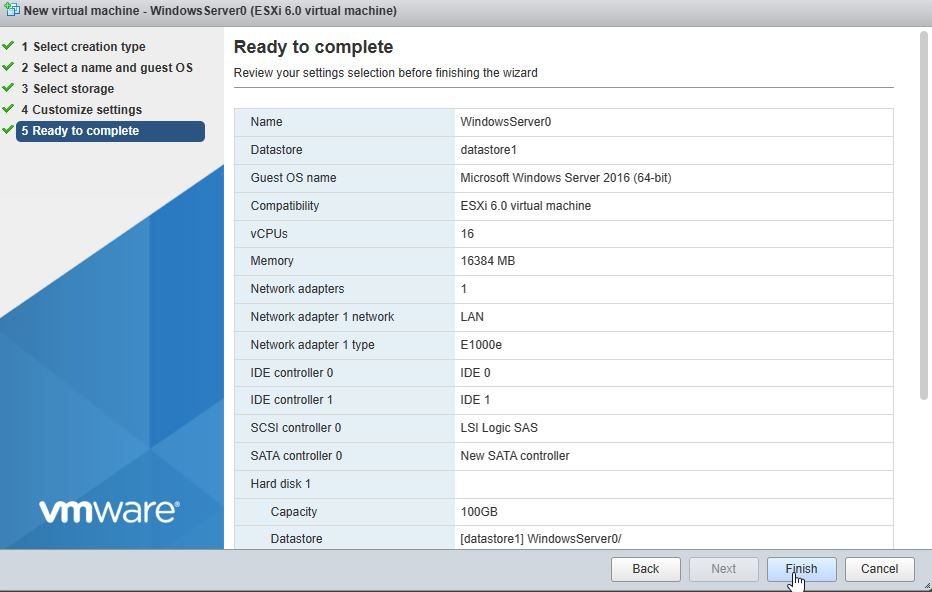
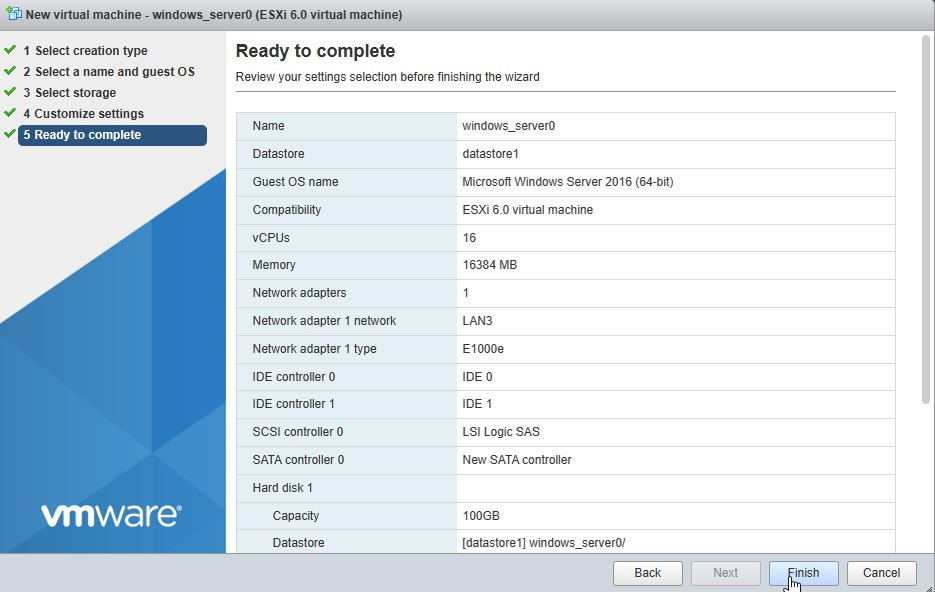
iso guide

Changed region(s): [[0.0, 0.0, 1.0, 1.0], [0.0, 0.3345, 0.1867, 0.5473]]

diff --git a/firstiIsoVM.md b/firstiIsoVM.md
@@ -1,5 +1,18 @@
 # Windows server VM on isolated network
-This demonstration uses ESXI and PFSense to configure a windows server VM on an isolated network 
+This demonstration uses ESXI and PFSense to configure a windows server VM on an isolated network. A homelab is usually primarily built as a learning environnement, so you may want to play with networks that do not use PFSense
+
+The idea here is to show how you can add network segments that are managed by non-pfsense systems. Access between the windows segment and the other interfaces can be managed using some simple firewall rules
+
+We are going to use windows server as the DHCP server on LAN3
+
+We are also going to deploy an IIS webserver, and create some firewall rules to control access from other interfaces
+        We will set up a windows server instance on LAN3
+
+        We will then set up DHCP and an IIS webserver on the Windows Server, and create firewall rules allowing only port 80 and 443 traffic from LAN2.
+
+        We will then plug a device into LAN3. We will demonstrate the the windows DHCP server server, and demonstrate the connectivity to other subnets
+
+        We will then connect to the IIS webserver 
 
 ## Requirements
 1. Completed the [Server & Hypervisor Setup Instructions](firstConfig.md) 
@@ -22,5 +35,42 @@ This demonstration uses ESXI and PFSense to configure a windows server VM on an 
     2. create a new virtual machine ? next ([screenshot](https://github.com/mynah22/Homelab-Guides/raw/main/screenshots/firstConfig/iso5.jpg))
     3. Name- your choice. Guest OS family- Windows. Guest OS Version- Windows server 2016. Click 'Next' ([screenshot](https://github.com/mynah22/Homelab-Guides/raw/main/screenshots/firstConfig/iso6.jpg))
     4. Select the datastore for the VM's virtual hard drive, click 'Next' ([screenshot](https://github.com/mynah22/Homelab-Guides/raw/main/screenshots/firstConfig/iso7.jpg))
-    5. CPU- 16, memory- 16MB (16384 MB), 100 GB hard drive, click 'Next ([screenshot](https://github.com/mynah22/Homelab-Guides/raw/main/screenshots/firstConfig/iso8.jpg))
+    5. customize settings screen:
+        - CPU- 16
+        - memory- 16MB (16384 MB)
+        - hard disk 1- 100 GB
+        - network adapter 1- LAN3
+        - CD/DVD Drive 1- Datastore ISO file ([screenshot]((https://github.com/mynah22/Homelab-Guides/raw/main/screenshots/firstConfig/iso10))
+        - click 'Next ([screenshot](https://github.com/mynah22/Homelab-Guides/raw/main/screenshots/firstConfig/iso8.jpg))
     6. Review details, click 'Finish' ([screenshot](https://github.com/mynah22/Homelab-Guides/raw/main/screenshots/firstConfig/iso9.jpg))
+    7. after a short delay you will see the new VM under Virtual Machines. Click the VM name to open it's configuration page ([screenshot](https://github.com/mynah22/Homelab-Guides/raw/main/screenshots/firstConfig/iso11.jpg))
+    8. click the console preview window to start the VM ([screenshot](https://github.com/mynah22/Homelab-Guides/raw/main/screenshots/firstConfig/iso12.jpg))
+
+- ### **Install Windows Server**
+    1. windows server should boot (screenshots [1](https://github.com/mynah22/Homelab-Guides/raw/main/screenshots/firstConfig/iso13.jpg) [2](https://github.com/mynah22/Homelab-Guides/raw/main/screenshots/firstConfig/iso14.jpg))
+    2. change language, time, and keyboard settings if needed, click 'Next' ([screenshot](https://github.com/mynah22/Homelab-Guides/raw/main/screenshots/firstConfig/iso15.jpg))
+    3. clcik 'Install now' ([screenshot](https://github.com/mynah22/Homelab-Guides/raw/main/screenshots/firstConfig/iso16.jpg))
+    4. setup will take a moment to start ([screenshot](https://github.com/mynah22/Homelab-Guides/raw/main/screenshots/firstConfig/iso17.jpg))
+    5. select the 'standard evaluation - desktop experience' OS, click 'Next' ([screenshot](https://github.com/mynah22/Homelab-Guides/raw/main/screenshots/firstConfig/iso18.jpg)) 
+    6. After a moment, you will see an 'Applicable notices and license terms' screen. Check the 'I accept the license terms' box, click 'Next' ([screenshot](https://github.com/mynah22/Homelab-Guides/raw/main/screenshots/firstConfig/iso19.jpg))
+    7. Click 'Custom: install windows only (advanced)' ([screenshot](https://github.com/mynah22/Homelab-Guides/raw/main/screenshots/firstConfig/iso20.jpg))
+    8. Click 'Next' ([screenshot](https://github.com/mynah22/Homelab-Guides/raw/main/screenshots/firstConfig/iso21.jpg))
+    9. Windows should install ([screenshot](https://github.com/mynah22/Homelab-Guides/raw/main/screenshots/firstConfig/iso22.jpg))
+    10. after installation, windows should boot (screenshots [1](https://github.com/mynah22/Homelab-Guides/raw/main/screenshots/firstConfig/iso23.jpg) [2](https://github.com/mynah22/Homelab-Guides/raw/main/screenshots/firstConfig/iso24.jpg))
+    9. Set admin password, click 'Finish' ([screenshot](https://github.com/mynah22/Homelab-Guides/raw/main/screenshots/firstConfig/iso25.jpg))
+- ### **Set up windows services**
+    1. You need to press Ctrl + Alt + Delete on the guest (windows server) in order to log in. To do this, Right Click the top bar of the VM console window, then Guest os > send keys > Ctrl-Atl-Delete ([screenshot](https://github.com/mynah22/Homelab-Guides/ raw/main/screenshots/firstConfig/iso26.jpg))
+    9. Type the administrator password you set above, ENTER to log in ([screenshot](https://github.com/mynah22/Homelab-Guides/raw/main/screenshots/firstConfig/iso27.jpg))
+    9. It will take a moment for Windows Server to load. Server Manager will be automatically launched, and you will be presented with a pop-up informing you about Windows Admin Center. Check 'Don't show this message again' and click X to close the pop up  (screenshots [1](https://github.com/mynah22/Homelab-Guides/raw/main/screenshots/firstConfig/iso28.jpg) [2](https://github.com/mynah22/Homelab-Guides/raw/main/screenshots/firstConfig/iso29.jpg) [3](https://github.com/mynah22/Homelab-Guides/raw/main/screenshots/firstConfig/iso30.jpg))
+    9. click 'add roles and features' ([screenshot](https://github.com/mynah22/Homelab-Guides/raw/main/screenshots/firstConfig/iso31.jpg))
+    10. click 'next' on the 'Before you begin' screen ([screenshot](https://github.com/mynah22/Homelab-Guides/raw/main/screenshots/firstConfig/iso32.jpg))
+    10. click 'next' to proceed with role-based installation ([screenshot](https://github.com/mynah22/Homelab-Guides/raw/main/screenshots/firstConfig/iso33.jpg))
+    10. click 'next' to install to this windows server instance ([screenshot](https://github.com/mynah22/Homelab-Guides/raw/main/screenshots/firstConfig/iso34.jpg))
+    10. click the checkbox next to the DHCP server role, then click 'add features' (screenshots [1](https://github.com/mynah22/Homelab-Guides/raw/main/screenshots/firstConfig/iso35.jpg) [2](https://github.com/mynah22/Homelab-Guides/raw/main/screenshots/firstConfig/iso36.jpg))
+    11. click 'Next' [screenshot](https://github.com/mynah22/Homelab-Guides/raw/main/screenshots/firstConfig/iso37.jpg)
+    12. click 'Next' without adding any features ([screenshot](https://github.com/mynah22/Homelab-Guides/raw/main/screenshots/firstConfig/iso38.jpg))
+    13. click 'Next' on the DHCP server screen ([screenshot](https://github.com/mynah22/Homelab-Guides/raw/main/screenshots/firstConfig/iso39.jpg))
+    13. click 'Install' on the confirmation screen ([screenshot](https://github.com/mynah22/Homelab-Guides/raw/main/screenshots/firstConfig/iso40.jpg))
+    13. click 'Install' on the confirmation screen. click 'Close' after installation completes (screenshots [1](https://github.com/mynah22/Homelab-Guides/raw/main/screenshots/firstConfig/iso40.jpg) [2](https://github.com/mynah22/Homelab-Guides/raw/main/screenshots/firstConfig/iso41.jpg) [3](https://github.com/mynah22/Homelab-Guides/raw/main/screenshots/firstConfig/iso42.jpg))
+    14. Click the flag icon, then 'complete DHCP configuration' ([screenshot](https://github.com/mynah22/Homelab-Guides/raw/main/screenshots/firstConfig/iso43.jpg))
+    15. Commit, close (screenshots [1](https://github.com/mynah22/Homelab-Guides/raw/main/screenshots/firstConfig/iso44.jpg)) [2](https://github.com/mynah22/Homelab-Guides/raw/main/screenshots/firstConfig/iso45.jpg)))
